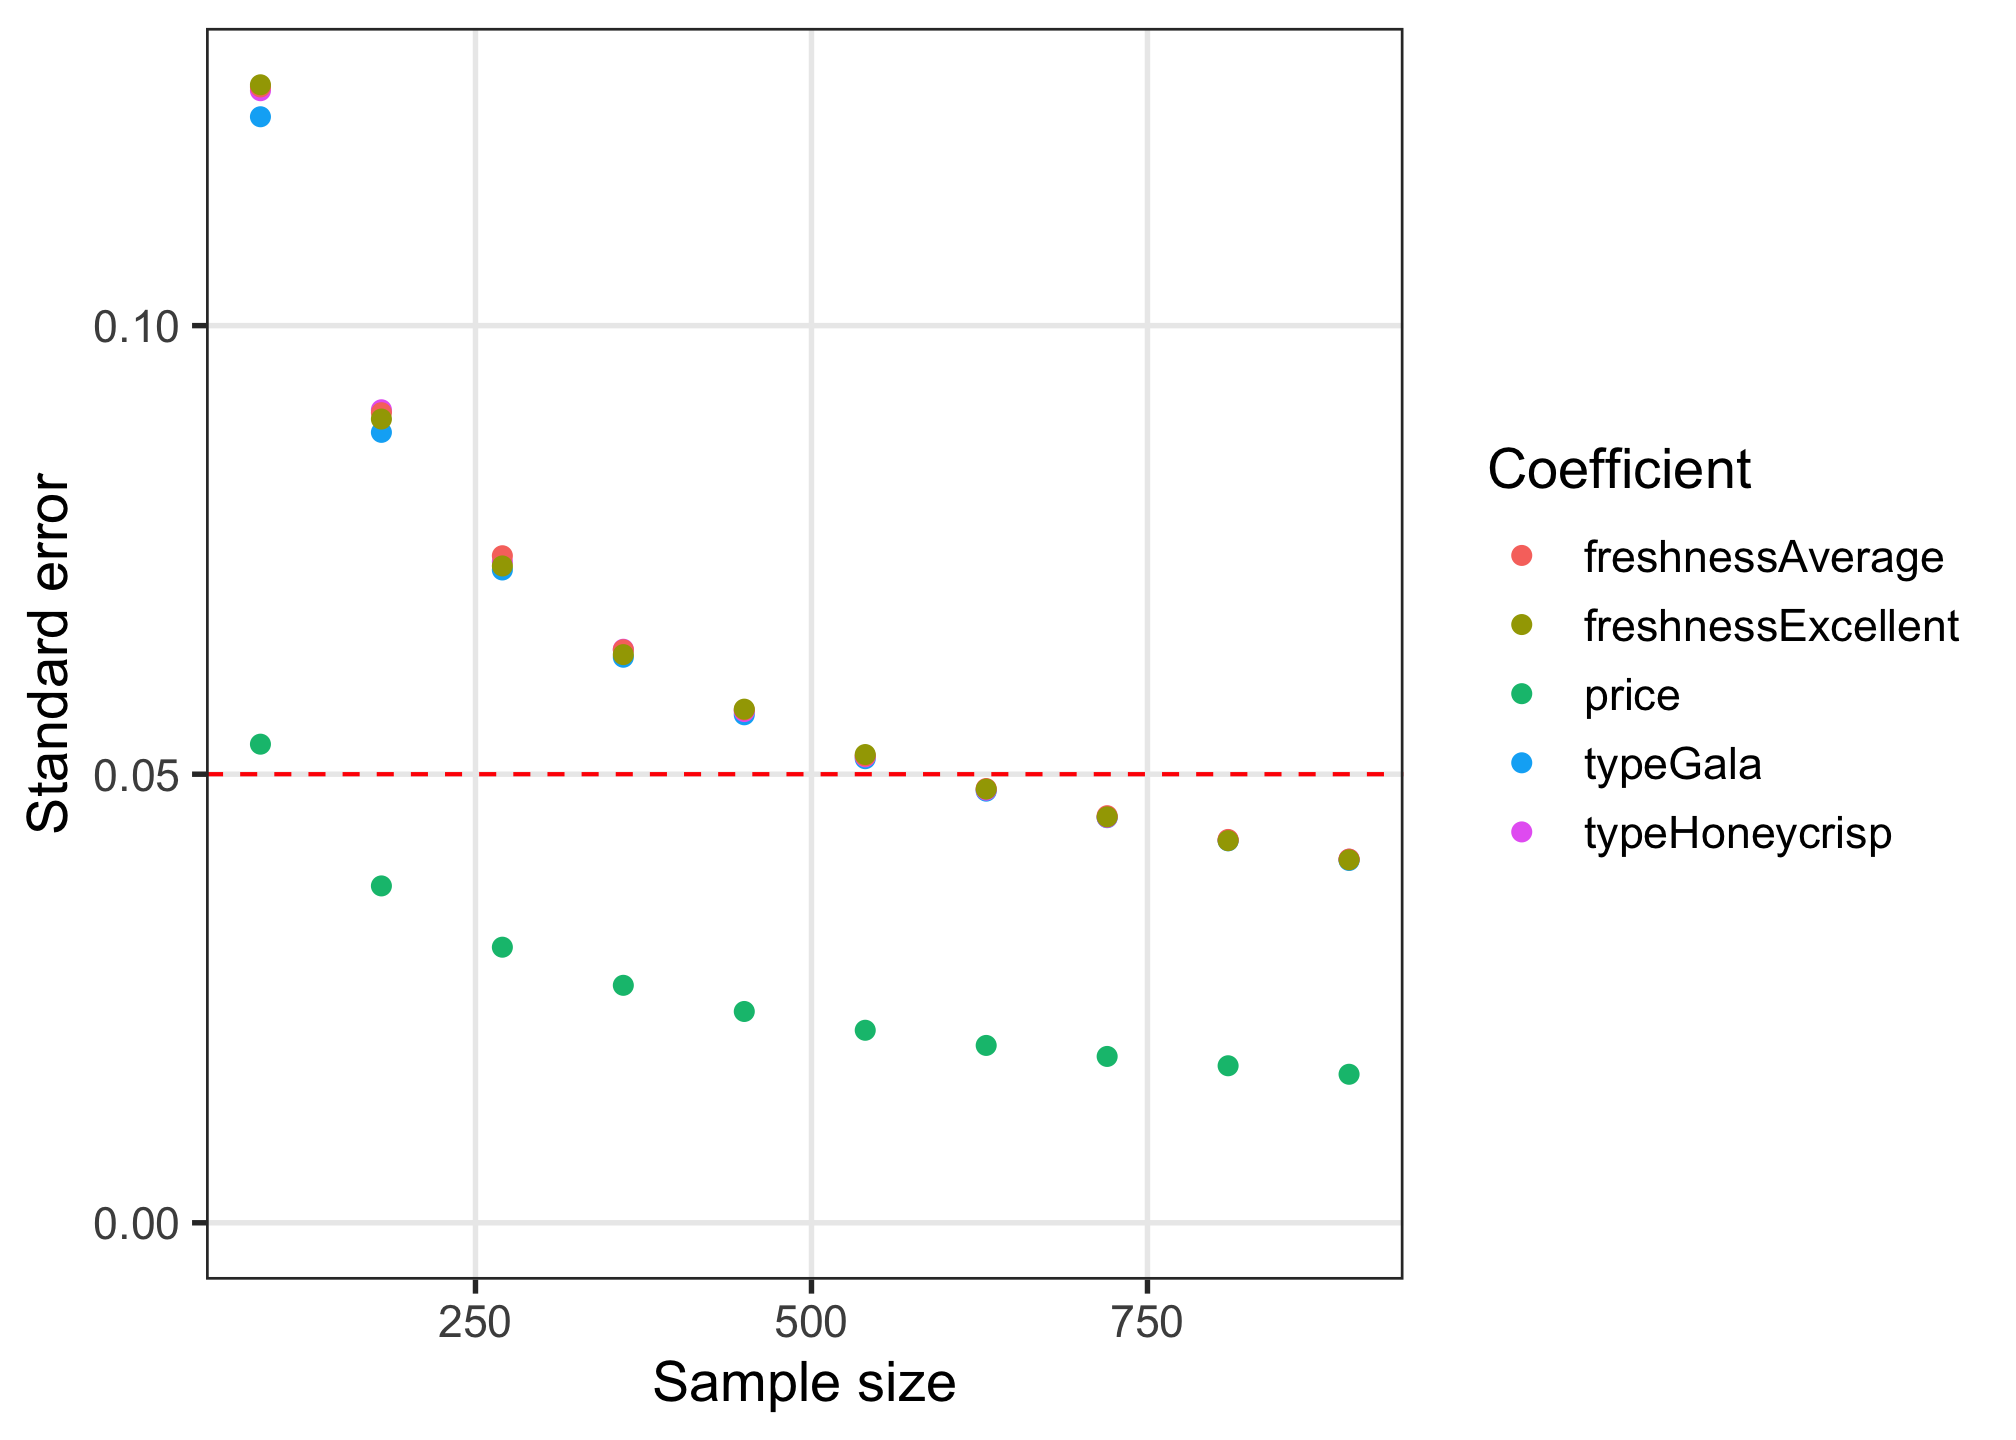
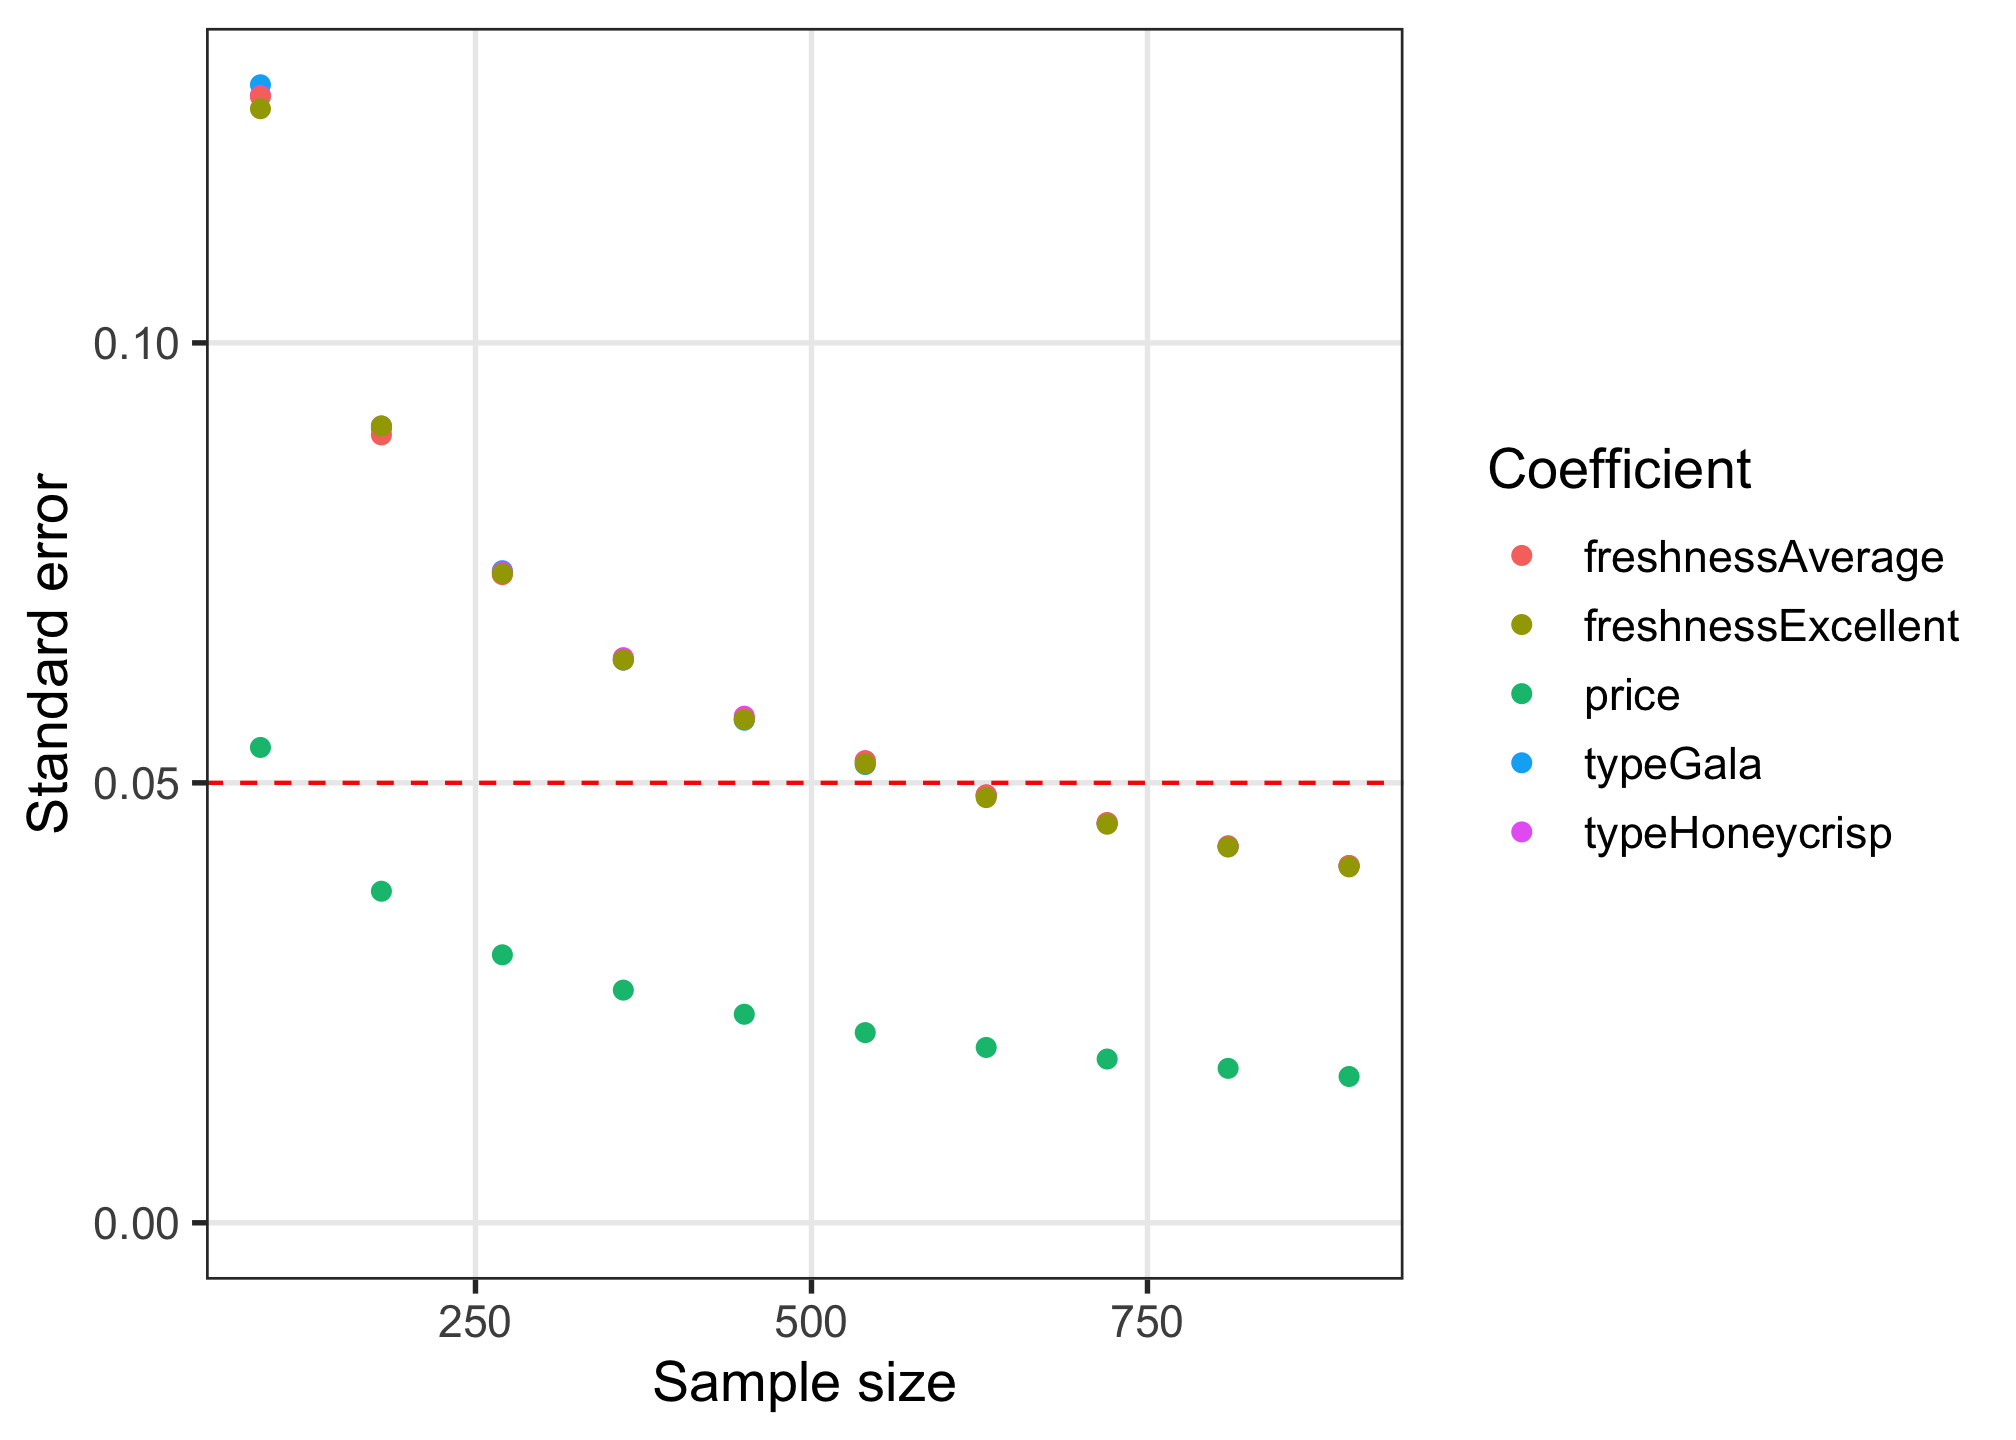
small typos and fixes during devtools testing

diff --git a/README.md b/README.md
@@ -161,12 +161,12 @@ dim(design)  # View dimensions
 #> [1] 16200     8
 head(design) # Preview first 6 rows
 #>   profileID respID qID altID obsID price       type freshness
-#> 1        61      1   1     1     1   3.0 Honeycrisp Excellent
-#> 2        25      1   1     2     1   2.5       Fuji   Average
-#> 3        12      1   1     3     1   3.0       Gala      Poor
-#> 4        36      1   2     1     2   1.0 Honeycrisp   Average
-#> 5        39      1   2     2     2   2.5 Honeycrisp   Average
-#> 6        60      1   2     3     2   2.5 Honeycrisp Excellent
+#> 1        60      1   1     1     1   2.5 Honeycrisp Excellent
+#> 2        17      1   1     2     1   2.0 Honeycrisp      Poor
+#> 3        21      1   1     3     1   4.0 Honeycrisp      Poor
+#> 4        24      1   2     1     2   2.0       Fuji   Average
+#> 5        49      1   2     2     2   4.0       Fuji Excellent
+#> 6        20      1   2     3     2   3.5 Honeycrisp      Poor
 ```
 
 ## Labeled designs (a.k.a. “alternative-specific” designs)
@@ -193,11 +193,11 @@ dim(design_labeled)
 head(design_labeled)
 #>   profileID respID qID altID obsID price       type freshness
 #> 1        26      1   1     1     1   3.0       Fuji   Average
-#> 2         9      1   1     2     1   1.5       Gala      Poor
-#> 3        58      1   1     3     1   1.5 Honeycrisp Excellent
-#> 4        23      1   2     1     2   1.5       Fuji   Average
-#> 5        14      1   2     2     2   4.0       Gala      Poor
-#> 6        20      1   2     3     2   3.5 Honeycrisp      Poor
+#> 2        55      1   1     2     1   3.5       Gala Excellent
+#> 3        16      1   1     3     1   1.5 Honeycrisp      Poor
+#> 4         1      1   2     1     2   1.0       Fuji      Poor
+#> 5        29      1   2     2     2   1.0       Gala   Average
+#> 6        42      1   2     3     2   4.0 Honeycrisp   Average
 ```
 
 In the above example, you can see in the first six rows of the survey
@@ -225,19 +225,19 @@ dim(design_nochoice)
 #> [1] 21600    13
 head(design_nochoice)
 #>   profileID respID qID altID obsID price type_Fuji type_Gala type_Honeycrisp
-#> 1        38      1   1     1     1   2.0         0         0               1
-#> 2        39      1   1     2     1   2.5         0         0               1
-#> 3        55      1   1     3     1   3.5         0         1               0
+#> 1        18      1   1     1     1   2.5         0         0               1
+#> 2        22      1   1     2     1   1.0         1         0               0
+#> 3        28      1   1     3     1   4.0         1         0               0
 #> 4         0      1   1     4     1   0.0         0         0               0
-#> 5        36      1   2     1     2   1.0         0         0               1
-#> 6        57      1   2     2     2   1.0         0         0               1
+#> 5        51      1   2     1     2   1.5         0         1               0
+#> 6        25      1   2     2     2   2.5         1         0               0
 #>   freshness_Poor freshness_Average freshness_Excellent no_choice
-#> 1              0                 1                   0         0
+#> 1              1                 0                   0         0
 #> 2              0                 1                   0         0
-#> 3              0                 0                   1         0
+#> 3              0                 1                   0         0
 #> 4              0                 0                   0         1
-#> 5              0                 1                   0         0
-#> 6              0                 0                   1         0
+#> 5              0                 0                   1         0
+#> 6              0                 1                   0         0
 ```
 
 ## Bayesian D-efficient designs
@@ -276,12 +276,12 @@ dim(design_db_eff)
 #> [1] 16200     8
 head(design_db_eff)
 #>   profileID respID qID altID obsID price       type freshness
-#> 1        43      1   1     1     1     1       Fuji Excellent
-#> 2        43      1   1     2     1     1       Fuji Excellent
-#> 3         1      1   1     3     1     1       Fuji      Poor
-#> 4        29      1   2     1     2     1       Gala   Average
-#> 5         8      1   2     2     2     1       Gala      Poor
-#> 6        36      1   2     3     2     1 Honeycrisp   Average
+#> 1        22      1   1     1     1     1       Fuji   Average
+#> 2        29      1   1     2     1     1       Gala   Average
+#> 3        50      1   1     3     1     1       Gala Excellent
+#> 4         8      1   2     1     2     1       Gala      Poor
+#> 5        36      1   2     2     2     1 Honeycrisp   Average
+#> 6        23      1   2     3     2   1.5       Fuji   Average
 ```
 
 Bayesian D-efficient designs that include a “no choice” option should
@@ -307,19 +307,19 @@ dim(design_db_eff_no_choice)
 #> [1] 21600    11
 head(design_db_eff_no_choice)
 #>   profileID respID qID altID obsID price type_Gala type_Honeycrisp
-#> 1         1      1   1     1     1     1         0               0
-#> 2        39      1   1     2     1     4         0               1
-#> 3        11      1   1     3     1     4         1               0
+#> 1        43      1   1     1     1     1         0               0
+#> 2        22      1   1     2     1     1         0               0
+#> 3        16      1   1     3     1     2         0               1
 #> 4        NA      1   1     4     1     0         0               0
-#> 5        29      1   2     1     2     1         1               0
-#> 6        57      1   2     2     2     1         0               1
+#> 5        57      1   2     1     2     1         0               1
+#> 6        29      1   2     2     2     1         1               0
 #>   freshness_Average freshness_Excellent no_choice
-#> 1                 0                   0         0
+#> 1                 0                   1         0
 #> 2                 1                   0         0
 #> 3                 0                   0         0
 #> 4                 0                   0         1
-#> 5                 1                   0         0
-#> 6                 0                   1         0
+#> 5                 0                   1         0
+#> 6                 1                   0         0
 ```
 
 # Inspect survey designs
@@ -337,34 +337,34 @@ cbc_balance(design)
 #> price x type 
 #> 
 #>          Fuji Gala Honeycrisp
-#>       NA 5355 5425       5420
-#> 1   2351  771  754        826
-#> 1.5 2363  808  803        752
-#> 2   2321  736  820        765
-#> 2.5 2344  787  762        795
-#> 3   2292  772  755        765
-#> 3.5 2169  713  728        728
-#> 4   2360  768  803        789
+#>       NA 5435 5385       5380
+#> 1   2323  791  728        804
+#> 1.5 2334  770  776        788
+#> 2   2319  797  777        745
+#> 2.5 2289  773  751        765
+#> 3   2298  748  786        764
+#> 3.5 2369  816  777        776
+#> 4   2268  740  790        738
 #> 
 #> price x freshness 
 #> 
 #>          Poor Average Excellent
-#>       NA 5426    5320      5454
-#> 1   2351  789     768       794
-#> 1.5 2363  798     771       794
-#> 2   2321  773     745       803
-#> 2.5 2344  791     748       805
-#> 3   2292  752     758       782
-#> 3.5 2169  711     742       716
-#> 4   2360  812     788       760
+#>       NA 5364    5418      5418
+#> 1   2323  754     765       804
+#> 1.5 2334  754     793       787
+#> 2   2319  811     737       771
+#> 2.5 2289  726     793       770
+#> 3   2298  771     761       766
+#> 3.5 2369  767     810       792
+#> 4   2268  781     759       728
 #> 
 #> type x freshness 
 #> 
 #>                 Poor Average Excellent
-#>              NA 5426    5320      5454
-#> Fuji       5355 1808    1757      1790
-#> Gala       5425 1794    1821      1810
-#> Honeycrisp 5420 1824    1742      1854
+#>              NA 5364    5418      5418
+#> Fuji       5435 1829    1811      1795
+#> Gala       5385 1774    1811      1800
+#> Honeycrisp 5380 1761    1796      1823
 ```
 
 The `cbc_overlap()` function prints out a summary of the amount of
@@ -384,17 +384,17 @@ cbc_overlap(design)
 #> price:
 #> 
 #>    1    2    3 
-#>   83 1776 3541 
+#>   80 1867 3453 
 #> 
 #> type:
 #> 
 #>    1    2    3 
-#>  539 3562 1299 
+#>  576 3613 1211 
 #> 
 #> freshness:
 #> 
 #>    1    2    3 
-#>  541 3625 1234
+#>  535 3590 1275
 ```
 
 # Simulate choices
@@ -414,12 +414,12 @@ data <- cbc_choices(
 
 head(data)
 #>   profileID respID qID altID obsID price       type freshness choice
-#> 1        61      1   1     1     1   3.0 Honeycrisp Excellent      1
-#> 2        25      1   1     2     1   2.5       Fuji   Average      0
-#> 3        12      1   1     3     1   3.0       Gala      Poor      0
-#> 4        36      1   2     1     2   1.0 Honeycrisp   Average      0
-#> 5        39      1   2     2     2   2.5 Honeycrisp   Average      1
-#> 6        60      1   2     3     2   2.5 Honeycrisp Excellent      0
+#> 1        60      1   1     1     1   2.5 Honeycrisp Excellent      0
+#> 2        17      1   1     2     1   2.0 Honeycrisp      Poor      1
+#> 3        21      1   1     3     1   4.0 Honeycrisp      Poor      0
+#> 4        24      1   2     1     2   2.0       Fuji   Average      0
+#> 5        49      1   2     2     2   4.0       Fuji Excellent      1
+#> 6        20      1   2     3     2   3.5 Honeycrisp      Poor      0
 ```
 
 ## Choices according to a prior
@@ -501,7 +501,8 @@ precise). The `cbc_power()` function achieves this by partitioning the
 choice data into multiple sizes (defined by the `nbreaks` argument) and
 then estimating a user-defined choice model on each data subset. In the
 example below, 10 different sample sizes are used. All models are
-estimated using the [{logitr}](https://jhelvy.github.io/logitr) package:
+estimated using the [{logitr}](https://jhelvy.github.io/logitr/)
+package:
 
 ``` r
 power <- cbc_power(
@@ -514,21 +515,21 @@ power <- cbc_power(
 )
 
 head(power)
-#>   sampleSize               coef           est         se
-#> 1         90              price  0.0260803668 0.05334739
-#> 2         90           typeGala -0.1077339529 0.12327980
-#> 3         90     typeHoneycrisp  0.1860517343 0.12618483
-#> 4         90   freshnessAverage  0.0328069051 0.12660726
-#> 5         90 freshnessExcellent  0.1120991243 0.12684269
-#> 6        180              price -0.0002419905 0.03754835
+#>   sampleSize               coef         est         se
+#> 1         90              price  0.05582323 0.05402057
+#> 2         90           typeGala -0.08587780 0.12933189
+#> 3         90     typeHoneycrisp -0.05025257 0.12813734
+#> 4         90   freshnessAverage -0.19860588 0.12800209
+#> 5         90 freshnessExcellent -0.02857241 0.12661228
+#> 6        180              price  0.02887836 0.03768179
 tail(power)
-#>    sampleSize               coef           est         se
-#> 45        810 freshnessExcellent -0.0511880850 0.04259193
-#> 46        900              price  0.0003218516 0.01655349
-#> 47        900           typeGala  0.0725488744 0.04038253
-#> 48        900     typeHoneycrisp  0.0355241735 0.04052658
-#> 49        900   freshnessAverage -0.0312887069 0.04053670
-#> 50        900 freshnessExcellent -0.0611011941 0.04045519
+#>    sampleSize               coef          est         se
+#> 45        810 freshnessExcellent  0.013311936 0.04271193
+#> 46        900              price  0.036916296 0.01662546
+#> 47        900           typeGala -0.000188905 0.04057381
+#> 48        900     typeHoneycrisp  0.010180138 0.04057511
+#> 49        900   freshnessAverage -0.033374250 0.04060837
+#> 50        900 freshnessExcellent  0.011159461 0.04044693
 ```
 
 The `power` data frame contains the coefficient estimates and standard
@@ -563,7 +564,7 @@ models <- cbc_power(
 summary(models[[10]])
 #> =================================================
 #> 
-#> Model estimated on: Mon Oct 31 14:03:40 2022 
+#> Model estimated on: Mon Oct 31 14:13:51 2022 
 #> 
 #> Using logitr version: 0.8.0 
 #> 
@@ -573,7 +574,7 @@ summary(models[[10]])
 #> 
 #> Frequencies of alternatives:
 #>       1       2       3 
-#> 0.33630 0.32741 0.33630 
+#> 0.33148 0.33444 0.33407 
 #> 
 #> Exit Status: 3, Optimization stopped because ftol_rel or ftol_abs was reached.
 #>                                 
@@ -587,21 +588,21 @@ summary(models[[10]])
 #> Robust?                    FALSE
 #> 
 #> Model Coefficients: 
-#>                       Estimate  Std. Error z-value Pr(>|z|)  
-#> price               0.00032185  0.01655349  0.0194  0.98449  
-#> typeGala            0.07254887  0.04038253  1.7965  0.07241 .
-#> typeHoneycrisp      0.03552417  0.04052658  0.8766  0.38072  
-#> freshnessAverage   -0.03128871  0.04053670 -0.7719  0.44020  
-#> freshnessExcellent -0.06110119  0.04045519 -1.5103  0.13096  
+#>                      Estimate Std. Error z-value Pr(>|z|)  
+#> price               0.0369163  0.0166255  2.2205  0.02639 *
+#> typeGala           -0.0001889  0.0405738 -0.0047  0.99629  
+#> typeHoneycrisp      0.0101801  0.0405751  0.2509  0.80189  
+#> freshnessAverage   -0.0333743  0.0406084 -0.8219  0.41116  
+#> freshnessExcellent  0.0111595  0.0404469  0.2759  0.78262  
 #> ---
 #> Signif. codes:  0 '***' 0.001 '**' 0.01 '*' 0.05 '.' 0.1 ' ' 1
 #>                                      
-#> Log-Likelihood:         -5.929763e+03
+#> Log-Likelihood:         -5.929330e+03
 #> Null Log-Likelihood:    -5.932506e+03
-#> AIC:                     1.186953e+04
-#> BIC:                     1.190250e+04
-#> McFadden R2:             4.624314e-04
-#> Adj McFadden R2:        -3.803827e-04
+#> AIC:                     1.186866e+04
+#> BIC:                     1.190163e+04
+#> McFadden R2:             5.353430e-04
+#> Adj McFadden R2:        -3.074711e-04
 #> Number of Observations:  5.400000e+03
 ```
 
@@ -671,10 +672,10 @@ citation("cbcTools")
 #> A BibTeX entry for LaTeX users is
 #> 
 #>   @Manual{,
-#>     title = {cbcTools: Tools For Designing Choice-Based Conjoint Survey Experiments},
+#>     title = {cbcTools: Tools for Designing Choice-Based Conjoint Survey Experiments},
 #>     author = {John Paul Helveston},
 #>     year = {2022},
-#>     note = {R package version 0.0.3},
+#>     note = {R package},
 #>     url = {https://jhelvy.github.io/cbcTools/},
 #>   }
 ```
